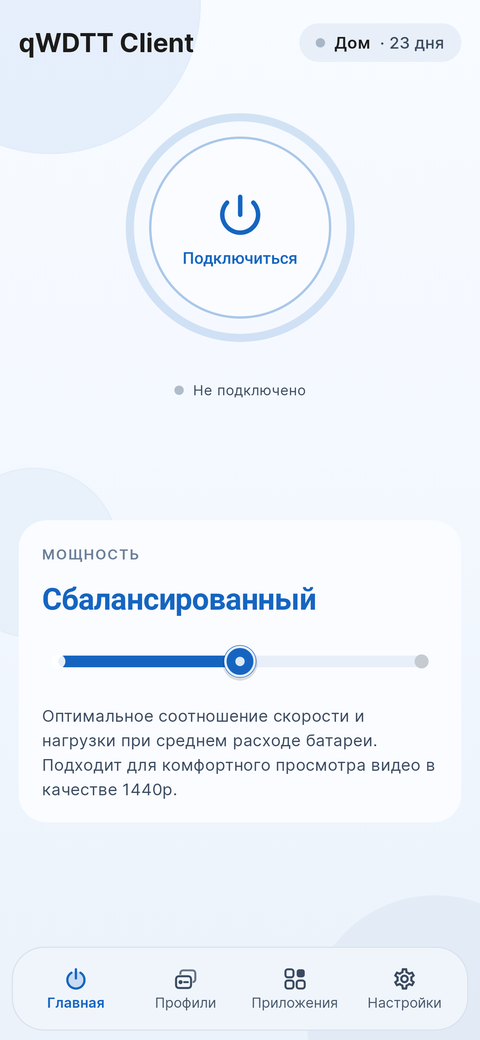
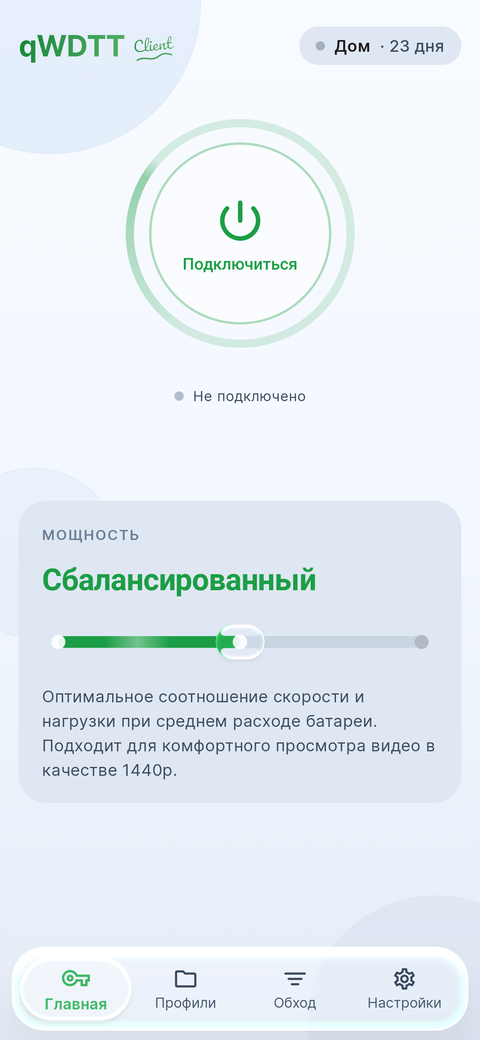
Thin «Client» everywhere, compact stat tiles, droplet label fits
- «Client»: one thin outline (contours merged, a band taken off the edge)
  in the launcher and monochrome icons, the quick settings tile and the home
  title; the icon no longer thickens it with an outline stroke. The store
  icon in the repository is rendered from the current launcher icon
  (IconRender) instead of the old upstream picture.
- Tab droplet: a little wider, 8% magnification, and labels kept narrow
  enough for its rounded ends, so «Настройки» is no longer bent by the rim.
- Время / Трафик / Пинг: no font padding, the label sits on the value.
- README screenshots from the current interface.

Claude-Session: https://claude.ai/code/session_01GyXKDJtGFtfU44nsYtEPto

diff --git a/app/src/main/java/com/wdtt/client/ui/home/ClientScript.kt b/app/src/main/java/com/wdtt/client/ui/home/ClientScript.kt
@@ -4,7 +4,6 @@ import androidx.compose.foundation.Canvas
 import androidx.compose.runtime.Composable
 import androidx.compose.runtime.remember
 import androidx.compose.ui.Modifier
-import androidx.compose.ui.graphics.BlendMode
 import androidx.compose.ui.graphics.Color
 import androidx.compose.ui.graphics.Matrix
 import androidx.compose.ui.graphics.StrokeCap
@@ -13,20 +12,13 @@ import androidx.compose.ui.graphics.drawscope.withTransform
 import androidx.compose.ui.graphics.vector.PathParser
 
 /**
- * The handwritten «Client» of the app icon, drawn lighter than in the icon: the letters
- * lose a thin band along their edges and the wave under them is a finer line. Drawn in
- * black; the caller colours it (the title lays the level colour over it).
+ * The handwritten «Client» of the app icon in its thin cut (the same outline as the
+ * launcher icon and the tile) with a fine wave under it. Drawn in black; the caller
+ * colours it (the title lays the level colour over it).
  */
 @Composable
 internal fun ClientScript(modifier: Modifier = Modifier) {
-    // The letters of the icon overlap one another; merged into one outline first, so the
-    // thinning below follows only the outer edge and leaves no seams inside the word.
-    val letters = remember {
-        val raw = PathParser().parsePathString(CLIENT_LETTERS).toPath()
-        androidx.compose.ui.graphics.Path().apply {
-            op(raw, androidx.compose.ui.graphics.Path(), androidx.compose.ui.graphics.PathOperation.Union)
-        }
-    }
+    val letters = remember { PathParser().parsePathString(CLIENT_LETTERS).toPath() }
     val wave = remember { PathParser().parsePathString(CLIENT_WAVE).toPath() }
     Canvas(modifier) {
         // The icon's 64-unit box, its offset and its slant (as in ic_tile_lite.xml).
@@ -37,8 +29,6 @@ internal fun ClientScript(modifier: Modifier = Modifier) {
             rotate(-6f, pivot = androidx.compose.ui.geometry.Offset(54f, 50f))
         }) {
             drawPath(letters, Color.Black)
-            // Thinner strokes: erase a band along every edge of the letters.
-            drawPath(letters, Color.Black, style = Stroke(width = 1.15f), blendMode = BlendMode.Clear)
             drawPath(wave, Color.Black, style = Stroke(width = 2.0f, cap = StrokeCap.Round))
         }
     }
@@ -46,51 +36,67 @@ internal fun ClientScript(modifier: Modifier = Modifier) {
 
 private const val CLIENT_WAVE = "M30,66 C40,60 50,70 60,64 C68,59 74,60 80,63"
 
+/** The script of the icon, thinned once (contours merged, a band taken off the edge); the same path as in the launcher icon and the tile. */
 private const val CLIENT_LETTERS =
-        "M27.468 47.344Q27.468 44.11 28.689 41.602Q29.91 39.094 32 37.719Q34.09 36.344 36.642 36.344" +
-        "Q39.018 36.344 40.25 37.565Q41.482 38.786 41.482 40.788Q41.482 42.13 41.009 42.944Q40.536 43.758 39.656 43.758" +
-        "Q39.04 43.758 38.688 43.472Q38.336 43.186 38.336 42.636Q38.336 42.438 38.424 41.91Q38.556 41.25 38.556 40.854" +
-        "Q38.556 38.852 36.422 38.852Q34.97 38.852 33.65 39.798Q32.33 40.744 31.516 42.581Q30.702 44.418 30.702 46.948" +
-        "Q30.702 49.588 32.176 51.029Q33.65 52.47 36.532 52.47Q37.962 52.47 39.425 52.107Q40.888 51.744 42.67 50.996" +
-        "Q43 50.864 43.22 50.864Q43.572 50.864 43.748 51.128Q43.924 51.392 43.924 51.81Q43.924 53.152 42.472 53.79" +
-        "Q40.91 54.472 39.227 54.791Q37.544 55.11 36.026 55.11Q33.408 55.11 31.472 54.153Q29.536 53.196 28.502 51.436" +
-        "Q27.468 49.676 27.468 47.344ZM51.162 51.084Q51.162 51.964 50.744 52.448Q49.798 53.614 48.687 54.362" +
-        "Q47.576 55.11 46.168 55.11Q44.232 55.11 43.297 53.35Q42.362 51.59 42.362 48.796Q42.362 46.112 43.055 42.68" +
-        "Q43.748 39.248 45.101 36.784Q46.454 34.32 48.324 34.32Q49.38 34.32 49.985 35.299Q50.59 36.278 50.59 38.104" +
-        "Q50.59 40.722 49.138 44.176Q47.686 47.63 45.2 51.018Q45.354 51.92 45.706 52.305Q46.058 52.69 46.63 52.69" +
-        "Q47.532 52.69 48.214 52.173Q48.896 51.656 49.952 50.402Q50.216 50.094 50.546 50.094" +
-        "Q50.832 50.094 50.997 50.358Q51.162 50.622 51.162 51.084ZM45.046 48.048Q46.608 45.474 47.532 42.889" +
-        "Q48.456 40.304 48.456 38.17Q48.456 36.498 47.84 36.498Q47.334 36.498 46.696 38.324Q46.058 40.15 45.574 42.856" +
-        "Q45.09 45.562 45.046 48.048ZM50.414 41.668Q50.414 40.898 51.019 40.381Q51.624 39.864 52.526 39.864" +
-        "Q53.34 39.864 53.846 40.26Q54.352 40.656 54.352 41.382Q54.352 42.262 53.78 42.779Q53.208 43.296 52.262 43.296" +
-        "Q51.338 43.296 50.876 42.867Q50.414 42.438 50.414 41.668ZM49.358 51.414Q49.358 50.424 49.611 48.873" +
-        "Q49.864 47.322 50.26 45.98Q50.458 45.276 50.788 45.012Q51.118 44.748 51.844 44.748Q52.966 44.748 52.966 45.496" +
-        "Q52.966 46.046 52.548 48.048Q52.02 50.468 52.02 51.326Q52.02 51.986 52.196 52.338Q52.372 52.69 52.79 52.69" +
-        "Q53.186 52.69 53.78 52.14Q54.374 51.59 55.364 50.402Q55.628 50.094 55.958 50.094Q56.244 50.094 56.409 50.358" +
-        "Q56.574 50.622 56.574 51.084Q56.574 51.964 56.156 52.448Q53.978 55.11 52.086 55.11Q50.656 55.11 50.007 54.098" +
-        "Q49.358 53.086 49.358 51.414ZM65.22 51.084Q65.22 51.964 64.802 52.448Q63.988 53.438 62.503 54.274" +
-        "Q61.018 55.11 59.324 55.11Q57.014 55.11 55.738 53.856Q54.462 52.602 54.462 50.424Q54.462 48.906 55.1 47.597" +
-        "Q55.738 46.288 56.871 45.518Q58.004 44.748 59.434 44.748Q60.71 44.748 61.48 45.507Q62.25 46.266 62.25 47.564" +
-        "Q62.25 49.082 61.161 50.171Q60.072 51.26 57.476 51.898Q58.026 52.91 59.566 52.91Q60.556 52.91 61.821 52.217" +
-        "Q63.086 51.524 64.01 50.402Q64.274 50.094 64.604 50.094Q64.89 50.094 65.055 50.358Q65.22 50.622 65.22 51.084Z" +
-        "M57.124 50.138V50.182Q58.422 49.874 59.17 49.258Q59.918 48.642 59.918 47.828Q59.918 47.41 59.687 47.157" +
-        "Q59.456 46.904 59.06 46.904Q58.246 46.904 57.685 47.85Q57.124 48.796 57.124 50.138ZM63.482 51.414" +
-        "Q63.482 48.554 64.296 45.98Q64.494 45.342 64.945 45.045Q65.396 44.748 66.21 44.748Q66.65 44.748 66.826 44.858" +
-        "Q67.002 44.968 67.002 45.276Q67.002 45.628 66.672 46.86Q66.452 47.74 66.32 48.4Q66.188 49.06 66.1 50.028" +
-        "Q66.826 48.136 67.728 46.948Q68.63 45.76 69.499 45.254Q70.368 44.748 71.094 44.748Q72.524 44.748 72.524 46.178" +
-        "Q72.524 47.036 72.04 49.28Q71.622 51.194 71.622 51.81Q71.622 52.69 72.26 52.69Q72.7 52.69 73.305 52.151" +
-        "Q73.91 51.612 74.922 50.402Q75.186 50.094 75.516 50.094Q75.802 50.094 75.967 50.358" +
-        "Q76.132 50.622 76.132 51.084Q76.132 51.964 75.714 52.448Q74.768 53.614 73.679 54.362Q72.59 55.11 71.204 55.11" +
-        "Q70.082 55.11 69.51 54.461Q68.938 53.812 68.938 52.58Q68.938 51.964 69.246 50.38Q69.532 48.994 69.532 48.466" +
-        "Q69.532 48.114 69.29 48.114Q69.004 48.114 68.487 48.851Q67.97 49.588 67.431 50.798Q66.892 52.008 66.562 53.35" +
-        "Q66.32 54.384 66.001 54.747Q65.682 55.11 65 55.11Q64.164 55.11 63.823 54.23Q63.482 53.35 63.482 51.414Z" +
-        "M84.778 51.084Q84.778 51.964 84.36 52.448Q83.414 53.614 82.292 54.362Q81.17 55.11 79.718 55.11" +
-        "Q75.23 55.11 75.23 48.796Q75.23 47.828 75.296 46.838H74.438Q73.778 46.838 73.547 46.596" +
-        "Q73.316 46.354 73.316 45.826Q73.316 44.594 74.306 44.594H75.56Q75.934 42.174 76.704 40.172" +
-        "Q77.474 38.17 78.563 36.982Q79.652 35.794 80.906 35.794Q81.83 35.794 82.358 36.608Q82.886 37.422 82.886 38.654" +
-        "Q82.886 42.064 80.026 44.594H82.49Q82.842 44.594 82.996 44.748Q83.15 44.902 83.15 45.32" +
-        "Q83.15 46.838 80.664 46.838H77.98Q77.936 47.938 77.936 48.554Q77.936 50.842 78.475 51.766" +
-        "Q79.014 52.69 80.18 52.69Q81.126 52.69 81.852 52.118Q82.578 51.546 83.568 50.402Q83.832 50.094 84.162 50.094" +
-        "Q84.448 50.094 84.613 50.358Q84.778 50.622 84.778 51.084ZM78.2 44.264Q79.498 43.142 80.147 41.745" +
-        "Q80.796 40.348 80.796 39.204Q80.796 37.906 80.312 37.906Q79.982 37.906 79.575 38.731" +
-        "Q79.168 39.556 78.805 41.019Q78.442 42.482 78.2 44.264Z"
+        "M28.043 47.344Q28.043 44.243 29.206 41.854Q30.358 39.488 32.316 38.199Q34.262 36.919 36.642 36.919" +
+        "Q38.781 36.919 39.845 37.973Q40.907 39.026 40.907 40.788Q40.907 41.975 40.512 42.655" +
+        "Q40.205 43.183 39.656 43.183Q39.244 43.183 39.051 43.026Q38.911 42.912 38.911 42.636" +
+        "Q38.911 42.487 38.99 42.013Q39.131 41.304 39.131 40.854Q39.131 38.277 36.422 38.277" +
+        "Q34.785 38.277 33.315 39.331Q31.868 40.368 30.99 42.348Q30.127 44.296 30.127 46.948Q30.127 49.83 31.774 51.44" +
+        "Q33.416 53.045 36.532 53.045Q38.032 53.045 39.563 52.665Q41.016 52.305 42.762 51.581" +
+        "Q43.188 51.404 43.108 50.95Q42.937 49.972 42.937 48.796Q42.937 46.169 43.619 42.794" +
+        "Q44.294 39.448 45.605 37.061Q46.794 34.895 48.324 34.895Q49.059 34.895 49.496 35.601" +
+        "Q50.015 36.441 50.015 38.104Q50.015 40.606 48.608 43.953Q47.182 47.345 44.736 50.678" +
+        "Q44.592 50.874 44.633 51.115Q44.816 52.183 45.282 52.693Q45.805 53.265 46.63 53.265" +
+        "Q47.725 53.265 48.561 52.631Q49.085 52.234 49.79 51.462Q49.931 51.306 49.939 51.096" +
+        "Q49.973 50.227 50.179 48.966Q50.426 47.45 50.811 46.143Q50.961 45.61 51.147 45.461Q51.32 45.323 51.844 45.323" +
+        "Q52.391 45.323 52.391 45.496Q52.391 45.987 51.985 47.93Q51.445 50.406 51.445 51.326" +
+        "Q51.445 52.122 51.682 52.595Q52.017 53.265 52.79 53.265Q53.411 53.265 54.171 52.562" +
+        "Q54.507 52.251 54.955 51.755Q55.137 51.554 55.097 51.285Q55.037 50.878 55.037 50.424" +
+        "Q55.037 49.039 55.617 47.849Q56.188 46.678 57.194 45.994Q58.181 45.323 59.434 45.323" +
+        "Q60.474 45.323 61.076 45.917Q61.675 46.507 61.675 47.564Q61.675 48.844 60.754 49.764Q59.779 50.74 57.339 51.34" +
+        "Q57.107 51.396 56.984 51.6Q56.861 51.804 56.918 52.035Q56.935 52.107 56.971 52.173Q57.684 53.485 59.566 53.485" +
+        "Q60.703 53.485 62.097 52.721Q63.092 52.176 63.891 51.385Q64.057 51.221 64.062 50.989" +
+        "Q64.118 48.451 64.844 46.153Q64.982 45.709 65.261 45.525Q65.568 45.323 66.21 45.323" +
+        "Q66.347 45.323 66.425 45.329Q66.401 45.65 66.117 46.711Q65.891 47.614 65.756 48.287" +
+        "Q65.618 48.977 65.527 49.976Q65.506 50.213 65.658 50.396Q65.811 50.579 66.048 50.601" +
+        "Q66.481 50.64 66.637 50.234Q67.333 48.418 68.186 47.296Q69.019 46.199 69.788 45.751" +
+        "Q70.523 45.323 71.094 45.323Q71.949 45.323 71.949 46.178Q71.949 46.975 71.478 49.159" +
+        "Q71.047 51.132 71.047 51.81Q71.047 53.265 72.26 53.265Q72.919 53.265 73.687 52.58Q74.324 52.013 75.363 50.771" +
+        "Q75.429 50.694 75.483 50.675Q75.899 50.524 75.859 50.083Q75.805 49.479 75.805 48.796" +
+        "Q75.805 47.847 75.87 46.876Q75.886 46.639 75.729 46.459Q75.572 46.28 75.334 46.264Q75.315 46.263 75.296 46.263" +
+        "L74.438 46.263Q74.024 46.263 73.963 46.199Q73.891 46.124 73.891 45.826Q73.891 45.169 74.306 45.169" +
+        "L75.56 45.169Q75.773 45.169 75.934 45.031Q76.096 44.892 76.128 44.682Q76.493 42.323 77.241 40.378" +
+        "Q77.972 38.478 78.987 37.371Q79.905 36.369 80.906 36.369Q81.518 36.369 81.876 36.921" +
+        "Q82.311 37.592 82.311 38.654Q82.311 41.805 79.645 44.163Q79.467 44.321 79.452 44.559" +
+        "Q79.438 44.797 79.595 44.975Q79.767 45.169 80.026 45.169L82.49 45.169L82.589 45.155L82.575 45.32" +
+        "Q82.575 46.263 80.664 46.263L77.98 46.263Q77.749 46.263 77.582 46.423Q77.415 46.584 77.405 46.815" +
+        "Q77.361 47.926 77.361 48.554Q77.361 50.997 77.978 52.056Q78.684 53.265 80.18 53.265Q81.325 53.265 82.208 52.57" +
+        "Q82.977 51.964 84.003 50.778Q84.076 50.693 84.132 50.674Q84.203 50.8 84.203 51.084Q84.203 51.75 83.925 52.072" +
+        "Q83.919 52.079 83.913 52.086Q83.022 53.184 81.973 53.884Q80.996 54.535 79.718 54.535" +
+        "Q77.172 54.535 76.299 52.191Q76.216 51.967 76 51.868Q75.783 51.769 75.56 51.852Q75.407 51.909 75.307 52.038" +
+        "Q75.293 52.056 75.279 52.072Q75.273 52.079 75.267 52.086Q74.374 53.187 73.353 53.888" +
+        "Q72.412 54.535 71.204 54.535Q70.342 54.535 69.941 54.081Q69.513 53.595 69.513 52.58Q69.513 52.019 69.81 50.49" +
+        "Q70.107 49.053 70.107 48.466Q70.107 47.539 69.29 47.539Q68.705 47.539 68.016 48.521" +
+        "Q67.467 49.303 66.906 50.564Q66.346 51.821 66.004 53.213Q65.793 54.113 65.569 54.367Q65.422 54.535 65 54.535" +
+        "Q64.558 54.535 64.359 54.022Q64.267 53.784 64.202 53.435Q64.158 53.201 63.961 53.067" +
+        "Q63.765 52.932 63.531 52.976Q63.399 53.001 63.292 53.081Q62.815 53.439 62.221 53.773" +
+        "Q60.867 54.535 59.324 54.535Q57.249 54.535 56.141 53.446Q55.946 53.254 55.786 53.037" +
+        "Q55.644 52.846 55.409 52.81Q55.173 52.775 54.982 52.917Q54.946 52.943 54.914 52.975" +
+        "Q53.372 54.535 52.086 54.535Q50.97 54.535 50.491 53.788Q50.355 53.575 50.252 53.325" +
+        "Q50.161 53.105 49.941 53.013Q49.722 52.921 49.501 53.012Q49.406 53.051 49.331 53.12" +
+        "Q48.865 53.549 48.366 53.885Q47.4 54.535 46.168 54.535Q44.578 54.535 43.805 53.08Q43.792 53.056 43.779 53.031" +
+        "Q43.669 52.82 43.442 52.748Q43.215 52.675 43.004 52.785Q42.94 52.818 42.886 52.866Q42.634 53.091 42.241 53.264" +
+        "Q40.739 53.919 39.12 54.226Q37.49 54.535 36.026 54.535Q33.542 54.535 31.727 53.638Q29.945 52.757 28.998 51.145" +
+        "Q28.043 49.52 28.043 47.344ZM45.538 48.346Q47.13 45.722 48.073 43.083Q49.031 40.404 49.031 38.17" +
+        "Q49.031 35.923 47.84 35.923Q46.926 35.923 46.153 38.134Q45.5 40.004 45.008 42.755Q44.516 45.506 44.471 48.038" +
+        "Q44.467 48.276 44.632 48.447Q44.798 48.619 45.036 48.623Q45.366 48.629 45.538 48.346ZM78.576 44.699" +
+        "Q79.967 43.496 80.668 41.987Q81.371 40.475 81.371 39.204Q81.371 37.331 80.312 37.331" +
+        "Q79.625 37.331 79.059 38.477Q78.625 39.357 78.247 40.881Q77.876 42.374 77.63 44.187" +
+        "Q77.598 44.423 77.742 44.612Q77.887 44.802 78.123 44.834Q78.38 44.869 78.576 44.699ZM56.549 50.138" +
+        "L56.549 50.182Q56.549 50.42 56.717 50.589Q56.886 50.757 57.124 50.757Q57.191 50.757 57.257 50.741" +
+        "Q58.685 50.403 59.536 49.702Q60.493 48.913 60.493 47.828Q60.493 47.187 60.112 46.769Q59.71 46.329 59.06 46.329" +
+        "Q57.918 46.329 57.19 47.557Q56.549 48.638 56.549 50.138ZM50.989 41.668Q50.989 41.163 51.393 40.818" +
+        "Q51.836 40.439 52.526 40.439Q53.142 40.439 53.492 40.713Q53.777 40.936 53.777 41.382" +
+        "Q53.777 42.007 53.394 42.352Q52.987 42.721 52.262 42.721Q51.564 42.721 51.267 42.446" +
+        "Q50.989 42.187 50.989 41.668Z"

diff --git a/app/src/main/java/com/wdtt/client/ui/components/layout/ArdttNavigationBar.kt b/app/src/main/java/com/wdtt/client/ui/components/layout/ArdttNavigationBar.kt
@@ -400,7 +400,7 @@ fun ArdttNavigationBar(
     // Where the droplet is, in tab slots: its centre and its half width. The tabs take
     // their colour only inside it, so the colour moves exactly with the droplet.
     val dropletSpan: () -> Pair<Float, Float> = {
-        val half = if (glassBar) (0.98f + 0.2f * lens) / 2f
+        val half = if (glassBar) (NavDropletWidth + 0.2f * lens) / 2f
             else (0.86f + (kotlin.math.abs(selPos.velocity) * 0.10f).coerceAtMost(0.45f)) / 2f
         selPos.value to half
     }
@@ -498,7 +498,7 @@ fun ArdttNavigationBar(
                             val slot = (constraints.maxWidth - pad * 2) / count
                             val lh = (trackH.toPx() - 8.dp.toPx()) * (0.86f + 0.14f * lens)
                             // Nearly the slot width: the longest label must fit inside the flat middle.
-                            val lw = slot * (0.98f + 0.2f * lens)
+                            val lw = slot * (NavDropletWidth + 0.2f * lens)
                             val placeable = measurable.measure(
                                 androidx.compose.ui.unit.Constraints.fixed(lw.roundToInt(), lh.roundToInt())
                             )
@@ -517,10 +517,11 @@ fun ArdttNavigationBar(
                         dark = dark,
                         // Narrow, shallow rim: the label sits close to the lower edge and must
                         // stay in the flat middle, not curl along the rim.
-                        bezel = 6.dp,
+                        bezel = NavDropletBezel,
                         depth = 2.dp,
-                        // A little magnification, like a magnifying lens over the tab.
-                        zoom = 0.12f,
+                        // A little magnification, like a magnifying lens over the tab; the
+                        // labels are kept narrow enough to stay in the flat middle (see NavBarTab).
+                        zoom = NavDropletZoom,
                         blur = 0.dp,
                         underlay = lerp(colors.surface, Color.White, if (dark) 0.06f else 0.5f),
                         fringe = 0.45f, dispersion = 0.2f,
@@ -569,6 +570,16 @@ private fun rememberNavAccentClock(accent: NavAccent): () -> Float {
     )
     return { p.value }
 }
+
+/**
+ * Glass droplet: width in tab slots, magnification, the width of its bending rim, and how
+ * much closer its rounded ends come at the height of the label (a capsule narrows away
+ * from its middle line; the label sits below it).
+ */
+private const val NavDropletWidth = 1.02f
+private const val NavDropletZoom = 0.08f
+private val NavDropletBezel = 6.dp
+private val NavDropletEndCap = 6.dp
 
 private const val NavAccentNeonPeriodMs = 2600
 /** Balanced: one faint pass about every seven seconds. */
@@ -908,9 +919,22 @@ private fun NavBarTab(
         }
         Spacer(modifier = Modifier.height(ArdttSpacing.Hairline))
         // One line; with a large system font the label shrinks instead of breaking mid-word.
+        // Under the glass droplet the label is magnified; it is kept so narrow that even
+        // magnified it stays inside the droplet's flat middle and is never bent by the rim.
+        val labelFit = if (glass != null && LiquidGlass.supported) {
+            Modifier.layout { measurable, constraints ->
+                val rim = NavDropletBezel.toPx() + NavDropletEndCap.toPx() + 1.dp.toPx()
+                val maxW = ((constraints.maxWidth * NavDropletWidth - 2f * rim) / (1f + NavDropletZoom)).roundToInt()
+                    .coerceIn(0, constraints.maxWidth)
+                val placeable = measurable.measure(constraints.copy(minWidth = 0, maxWidth = maxW))
+                layout(constraints.maxWidth, placeable.height) {
+                    placeable.place((constraints.maxWidth - placeable.width) / 2, 0)
+                }
+            }
+        } else Modifier.fillMaxWidth()
         com.wdtt.client.ui.components.control.FitText(
             text = item.label,
-            modifier = Modifier.fillMaxWidth(),
+            modifier = labelFit,
             style = ArdttNavigationLabelStyle.copy(
                 platformStyle = PlatformTextStyle(includeFontPadding = false),
                 lineHeightStyle = LineHeightStyle(

diff --git a/app/src/main/java/com/wdtt/client/ui/home/HomeScreen.kt b/app/src/main/java/com/wdtt/client/ui/home/HomeScreen.kt
@@ -70,6 +70,7 @@ import androidx.compose.ui.text.font.FontWeight
 import androidx.compose.ui.text.style.TextOverflow
 import androidx.compose.ui.unit.dp
 import androidx.compose.ui.unit.sp
+import androidx.compose.ui.text.TextStyle
 import androidx.lifecycle.compose.collectAsStateWithLifecycle
 import com.wdtt.client.MainActivity
 import com.wdtt.client.ProfilesStore
@@ -489,11 +490,11 @@ private fun TrafficTile(traffic: Traffic, accent: Color, modifier: Modifier) {
         modifier
             .clip(RoundedCornerShape(14.dp))
             .background(scheme.surfaceVariant)
-            .padding(vertical = 8.dp, horizontal = 4.dp),
+            .padding(vertical = 7.dp, horizontal = 4.dp),
         horizontalAlignment = Alignment.CenterHorizontally,
-        verticalArrangement = Arrangement.spacedBy(2.dp),
+        verticalArrangement = Arrangement.spacedBy(1.dp),
     ) {
-        Text("Трафик", fontSize = 11.sp, color = scheme.onSurfaceVariant)
+        Text("Трафик", style = tileLabelStyle(), color = scheme.onSurfaceVariant)
         Row(verticalAlignment = Alignment.CenterVertically, horizontalArrangement = Arrangement.spacedBy(4.dp)) {
             Row(horizontalArrangement = Arrangement.spacedBy((-3).dp)) {
                 FlowArrow(down = true, active = traffic.downActive, accent = accent, drift = drift)
@@ -501,7 +502,7 @@ private fun TrafficTile(traffic: Traffic, accent: Color, modifier: Modifier) {
             }
             Text(
                 total?.let { formatMb(it) } ?: "—",
-                fontSize = 14.sp, fontWeight = FontWeight.SemiBold, color = scheme.onSurface, maxLines = 1,
+                style = tileValueStyle(), color = scheme.onSurface, maxLines = 1,
             )
         }
     }
@@ -535,14 +536,35 @@ private fun StatTile(label: String, value: String, dot: Color?, modifier: Modifi
         modifier
             .clip(RoundedCornerShape(14.dp))
             .background(scheme.surfaceVariant)
-            .padding(vertical = 8.dp, horizontal = 4.dp),
+            .padding(vertical = 7.dp, horizontal = 4.dp),
         horizontalAlignment = Alignment.CenterHorizontally,
-        verticalArrangement = Arrangement.spacedBy(2.dp),
+        verticalArrangement = Arrangement.spacedBy(1.dp),
     ) {
-        Text(label, fontSize = 11.sp, color = scheme.onSurfaceVariant)
+        Text(label, style = tileLabelStyle(), color = scheme.onSurfaceVariant)
         Row(verticalAlignment = Alignment.CenterVertically, horizontalArrangement = Arrangement.spacedBy(6.dp)) {
             if (dot != null) Box(Modifier.size(7.dp).background(dot, CircleShape))
-            Text(value, fontSize = 14.sp, fontWeight = FontWeight.SemiBold, color = scheme.onSurface, maxLines = 1)
+            Text(value, style = tileValueStyle(), color = scheme.onSurface, maxLines = 1)
         }
     }
 }
+
+// Tile texts without the font's own top and bottom padding: the label sits right on the value.
+private val TightLines = androidx.compose.ui.text.style.LineHeightStyle(
+    alignment = androidx.compose.ui.text.style.LineHeightStyle.Alignment.Center,
+    trim = androidx.compose.ui.text.style.LineHeightStyle.Trim.Both,
+)
+
+private fun tileLabelStyle() = TextStyle(
+    fontSize = 11.sp,
+    lineHeight = 13.sp,
+    platformStyle = androidx.compose.ui.text.PlatformTextStyle(includeFontPadding = false),
+    lineHeightStyle = TightLines,
+)
+
+private fun tileValueStyle() = TextStyle(
+    fontSize = 14.sp,
+    lineHeight = 17.sp,
+    fontWeight = FontWeight.SemiBold,
+    platformStyle = androidx.compose.ui.text.PlatformTextStyle(includeFontPadding = false),
+    lineHeightStyle = TightLines,
+)

diff --git a/app/src/test/java/com/wdtt/client/IconRender.kt b/app/src/test/java/com/wdtt/client/IconRender.kt
@@ -1,0 +1,44 @@
+package com.wdtt.client
+
+import android.graphics.Bitmap
+import android.graphics.Canvas
+import android.graphics.Color
+import androidx.core.content.ContextCompat
+import androidx.test.core.app.ApplicationProvider
+import org.junit.Test
+import org.junit.runner.RunWith
+import org.robolectric.RobolectricTestRunner
+import org.robolectric.annotation.Config
+import org.robolectric.annotation.GraphicsMode
+import java.io.File
+
+/** Renders the launcher icon (full bleed, 512 px, as for the store), the monochrome icon and the tile. */
+@RunWith(RobolectricTestRunner::class)
+@GraphicsMode(GraphicsMode.Mode.NATIVE)
+@Config(sdk = [35])
+class IconRender {
+    private fun save(bmp: Bitmap, name: String) {
+        val dir = File("build/outputs/icons").apply { mkdirs() }
+        File(dir, name).outputStream().use { bmp.compress(Bitmap.CompressFormat.PNG, 100, it) }
+    }
+
+    private fun draw(id: Int, size: Int, bg: Int? = null): Bitmap {
+        val ctx = ApplicationProvider.getApplicationContext<android.content.Context>()
+        val bmp = Bitmap.createBitmap(size, size, Bitmap.Config.ARGB_8888)
+        val c = Canvas(bmp)
+        if (bg != null) c.drawColor(bg)
+        ContextCompat.getDrawable(ctx, id)!!.apply { setBounds(0, 0, size, size); draw(c) }
+        return bmp
+    }
+
+    @Test fun render() {
+        val ctx = ApplicationProvider.getApplicationContext<android.content.Context>()
+        val store = Bitmap.createBitmap(512, 512, Bitmap.Config.ARGB_8888)
+        val c = Canvas(store)
+        ContextCompat.getDrawable(ctx, R.drawable.ic_launcher_background)!!.apply { setBounds(0, 0, 512, 512); draw(c) }
+        ContextCompat.getDrawable(ctx, R.drawable.ic_launcher_foreground)!!.apply { setBounds(0, 0, 512, 512); draw(c) }
+        save(store, "playstore.png")
+        save(draw(R.drawable.ic_launcher_monochrome, 256, Color.WHITE), "monochrome.png")
+        save(draw(R.drawable.ic_tile_lite, 192, Color.DKGRAY), "tile.png")
+    }
+}
